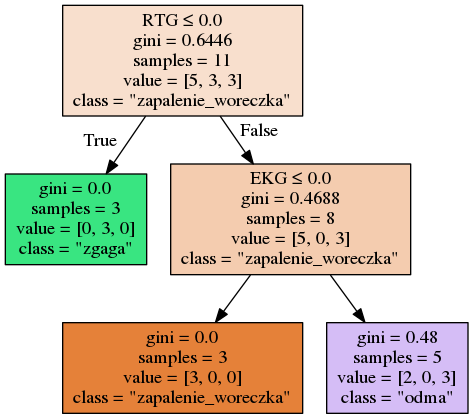
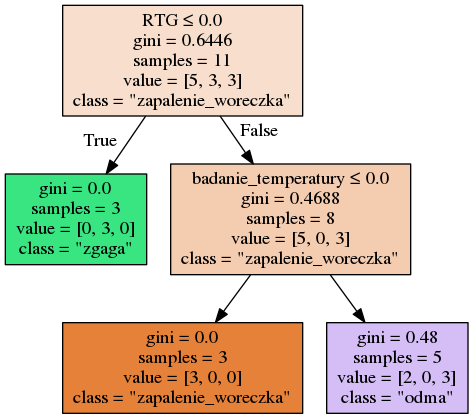
Apriori and decsiion tree

Changed region(s): [[0.3848, 0.4033, 0.8288, 0.4654]]

diff --git a/analytics/polls/decision.py b/analytics/polls/decision.py
@@ -4,17 +4,14 @@ from sklearn.datasets import load_iris
 
 import json
 import csv
-def decision_tree(data,desc):
-    desc = json.loads(desc)
+def decision_tree(data,desc_data):
+    desc_data = json.loads(desc_data)
     rows = data.split('\n')
     if rows[-1] == '' :
         rows = rows[:-1]
     rows = [x.split(",") for x in rows ]
     desc = rows[0]
     data = rows[1:]
-
-
-
     clf = tree.DecisionTreeClassifier()
     features = [x[:-1] for x in data ]
     classes = [x[-1] for x in data]
@@ -23,17 +20,9 @@ def decision_tree(data,desc):
         if classes[x] not in class_names:
             class_names.append(classes[x])
         classes[x] = class_names.index(classes[x])
-
-
     clf = clf.fit(features,classes)
-    # with open("iris.dot", 'wb') as f:
-    #     f = tree.export_graphviz(clf, out_file=f)
-    # import os
-    # os.unlink('iris.dot')
     import pydotplus
     from IPython.display import Image
-
-
     dot_data = tree.export_graphviz(clf, out_file=None,
                             max_depth=6,
                              feature_names=desc[:-1],
@@ -43,18 +32,18 @@ def decision_tree(data,desc):
     graph = pydotplus.graph_from_dot_data(dot_data)
     img = Image(graph.create_png())
     graph.write_png("file.png")
-    #import matplotlib.pyplot as plt
-    #import matplotlib.image as mpimg
-    #img = mpimg.imread('file.png')
-    #imgplot = plt.imshow(img)
-    #json.dumps({'picture': img.encode('base64')})
-    return img
+    with open("file.png", "rb") as imageFile:
+        f = imageFile.read()
+    desc_data["file"] = f.encode('base64')
+    # js = json.dumps({"file":f.encode('base64')})
+    # print desc_data
+    return desc_data
 
 
-#f = open('/home/zuchens/Desktop/pm/analytic_module/input_data/decision.json','rb')
-#desc = f.read()
-
-#f = open('/home/zuchens/Desktop/pm/analytic_module/input_data/decision_data.csv', 'rb')
-#data = f.read()
-
-#decision_tree(data,desc)
+# f = open('/home/zuchens/Desktop/pm/analytic_module/input_data/decision.json','rb')
+# desc = f.read()
+#
+# f = open('/home/zuchens/Desktop/pm/analytic_module/input_data/decision_data.csv', 'rb')
+# data = f.read()
+#
+# decision_tree(data,desc)

diff --git a/analytics/polls/apriori.py b/analytics/polls/apriori.py
@@ -1,3 +1,41 @@
+from apyori import apriori
+import json
+# min_support
+# min_confidence
+# min_lift
+# max_length
 
-def apriori_rules(data,desc):
-    return data
+def apriori_rules(data,desc_json):
+    desc_json = json.loads(desc_json)
+    rows = data.split('\n')
+    rows = [x.split(",") for x in rows ]
+    desc = rows[0]
+    data = rows[1:]
+    dataset = []
+    for row in data:
+        set  = []
+        for item in range (0,len(desc)):
+            if int(row[item])==0:
+                set.append(desc_json['answers'][item]+"=0")
+            else:
+                set.append(desc_json['answers'][item]+"=1")
+        dataset.append(set)
+    results = list(apriori(dataset,min_support=0.3,min_confidence=0.5))
+    ordered = [r.ordered_statistics for r in results]
+    order  = [item for sublist in ordered for item in sublist]
+    rules = []
+    for item in order:
+        if len(item.items_base)>0:
+            js_dumps =json.dumps({'items_base':[x for x in item.items_base], 'items_add':[x for x in item.items_add],'confidence':item.confidence,'lift':item.lift})
+            rules.append(js_dumps)
+    desc_json['rules']=rules
+    return desc_json
+
+#
+# f = open('/home/zuchens/Desktop/pm/analytic_module/input_data/apriori.json','rb')
+# desc = f.read()
+#
+# f = open('/home/zuchens/Desktop/pm/analytic_module/input_data/apriori.csv', 'rb')
+# data = f.read()
+#
+# apriori_rules(data,desc)
